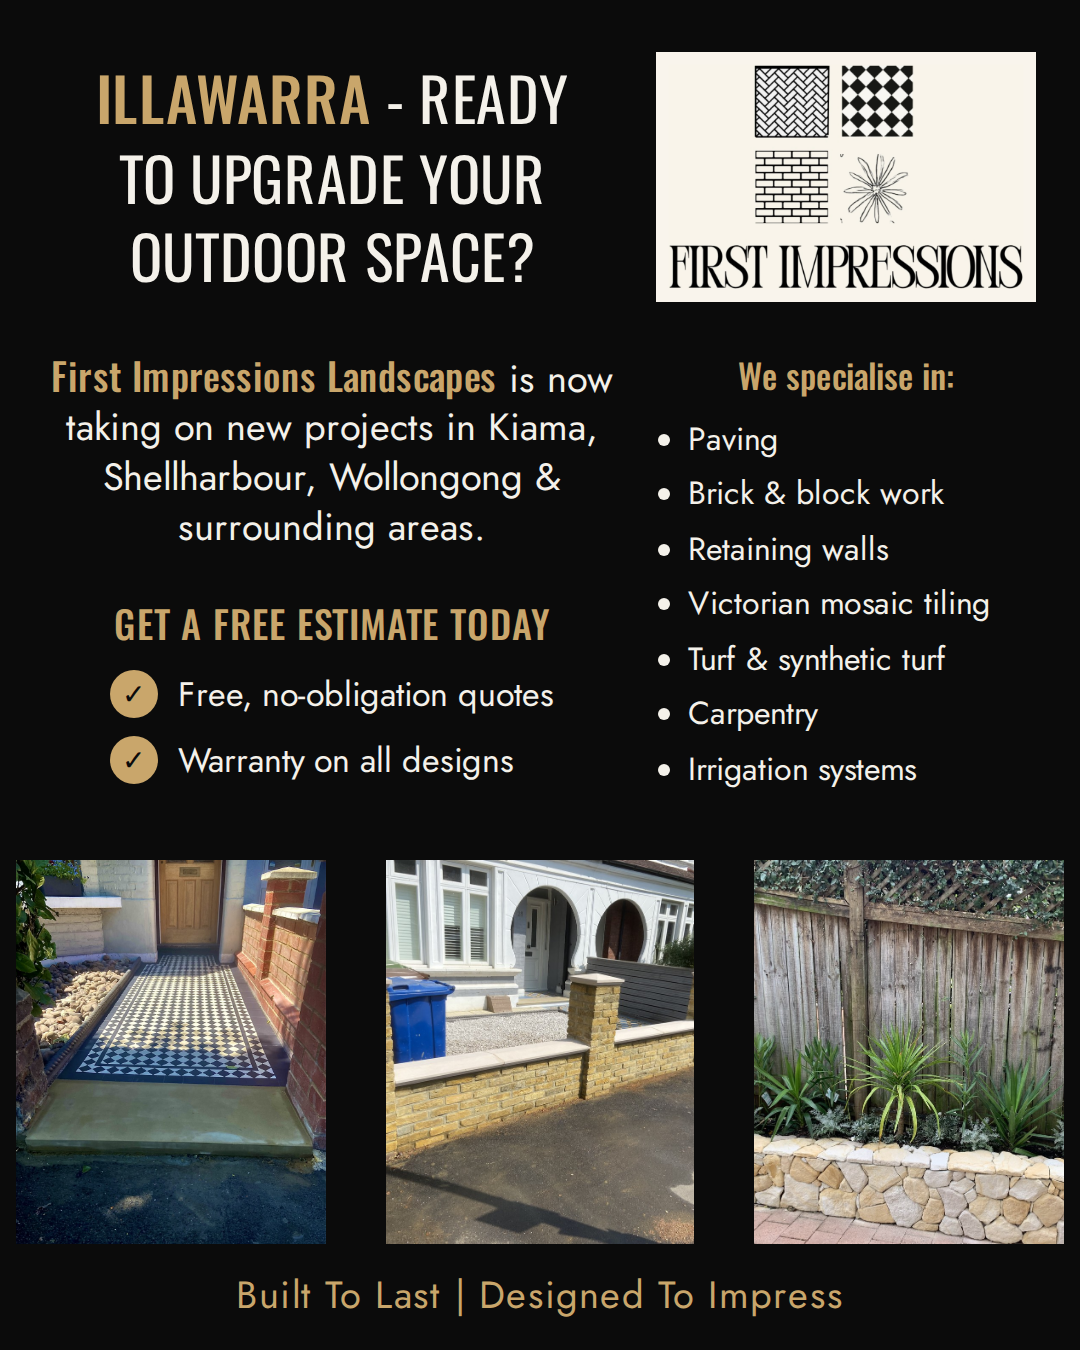
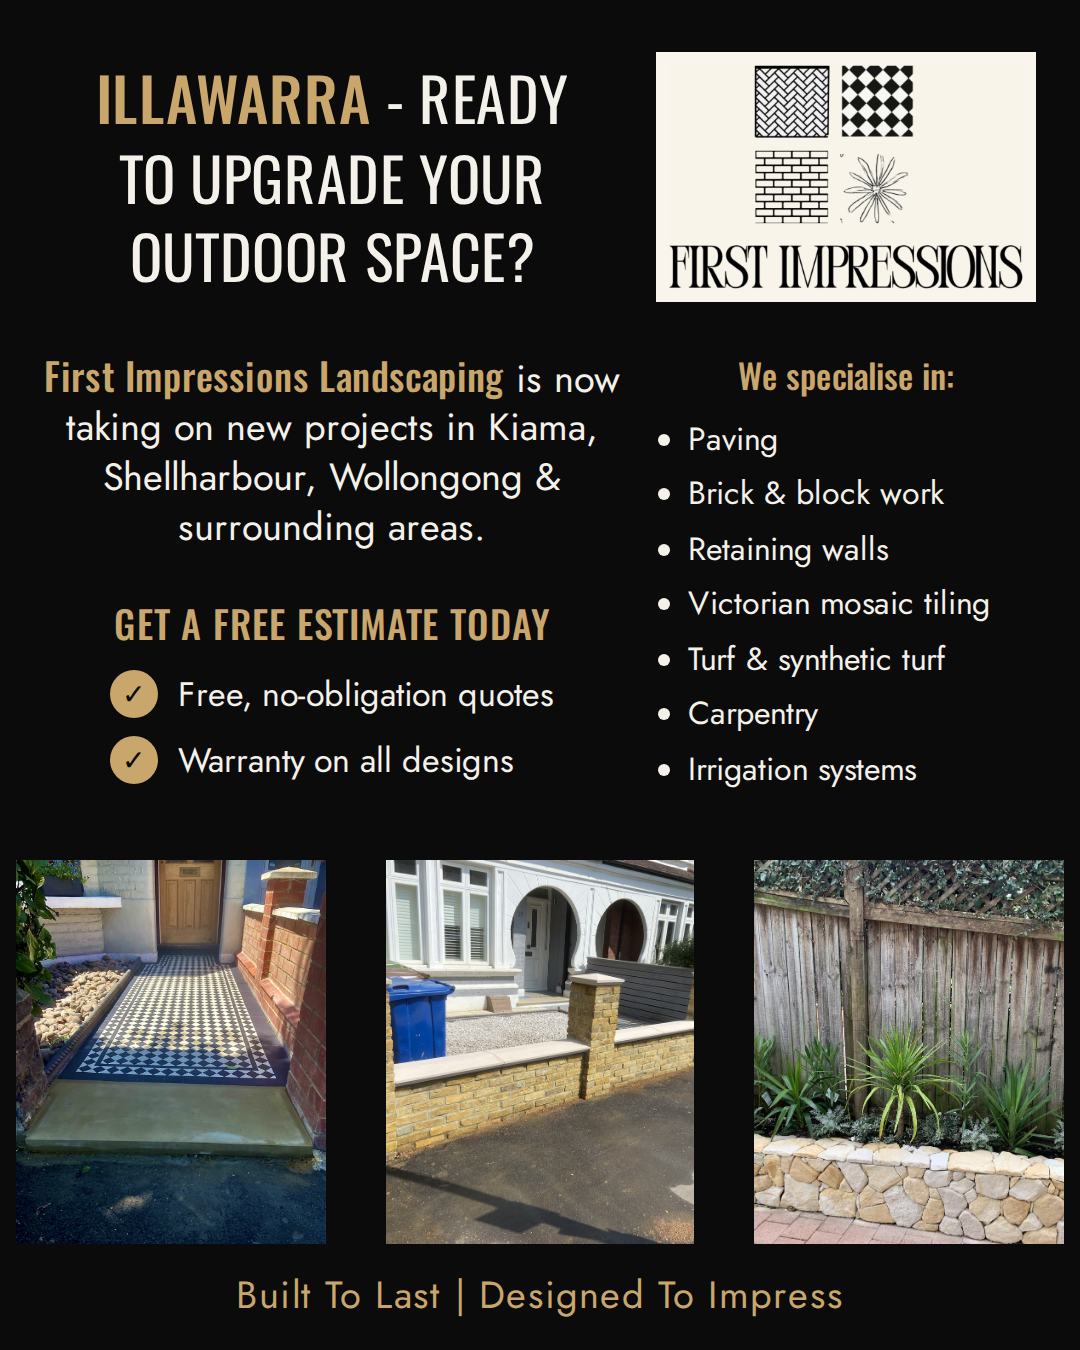
Change business name in ad copy to First Impressions Landscaping
Claude-Session: https://claude.ai/code/session_01Kp3iAUfScQwAQYUi1SKLzt

Changed region(s): [[0.0306, 0.2489, 0.5806, 0.3111]]

diff --git a/ad2/ad.html b/ad2/ad.html
@@ -66,7 +66,7 @@
     </div>
     <div class="mid">
       <div class="pitch">
-        <p><b>First Impressions Landscapes</b> is now taking on new projects in Kiama, Shellharbour, Wollongong &amp; surrounding areas.</p>
+        <p><b>First Impressions Landscaping</b> is now taking on new projects in Kiama, Shellharbour, Wollongong &amp; surrounding areas.</p>
         <div class="cta-head">Get a free estimate today</div>
         <div class="perks">
           <div class="perk"><i>&#10003;</i>Free, no-obligation quotes</div>
